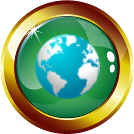
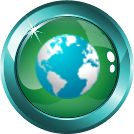
Botonera, cambiado varios aspectos de botonera
Se elimina animación CSS, puesto que no funciona en IOS.
Se cambia el color de botón activado.
Se coloca una barra tras los botones.

diff --git a/www/css/index.css b/www/css/index.css
@@ -62,49 +62,19 @@ footer.page-footer {
   margin-bottom: 0;
   margin-top: 0;
   background-color: #13fdfe;
-  /*background-image: url('../img/botonera.png');*/
+  background-image: url('../img/botonera.png');
   background-size: 100% 100%;
   height: 20vh;
-  animation: nieblaPie 100s ease infinite;
+  /*animation: nieblaPie 30s linear infinite;*/
   line-height: 0.5em;
   font-size: 1.3em;
   /*background-image: url('../img/botonera.jpg');*/
 }
 
-@keyframes nieblaPie {
-  0% {
-    background-image: url('../img/botonera-0.png');
-  }
-  10% {
-    background-image: url('../img/botonera-1.png');
-  }
-  20% {
-    background-image: url('../img/botonera-2.png');
-  }
-  30% {
-    background-image: url('../img/botonera-3.png');
-  }
-  40% {
-    background-image: url('../img/botonera-4.png');
-  }
-  50% {
-    background-image: url('../img/botonera-5.png');
-  }
-  60% {
-    background-image: url('../img/botonera-4.png');
-  }
-  70% {
-    background-image: url('../img/botonera-3.png');
-  }
-  80% {
-    background-image: url('../img/botonera-2.png');
-  }
-  90% {
-    background-image: url('../img/botonera-1.png');
-  }
-  100% {
-    background-image: url('../img/botonera-0.png');
-  }
+.botonera {
+  background-image: url('../img/fondo_botonera.gif');
+  background-position: center;
+  background-size: 90%;
 }
 
 .nombreApp {

diff --git a/www/index.html b/www/index.html
@@ -69,7 +69,7 @@
       </main>
       <footer class="page-footer">
         <div class="controls container">
-          <div class="row">
+          <div class="row botonera">
             <div class="col s3 m3 l3">
                 <img id="scanner-boton" src="img/boton_scanner_pulsado.png" class="circle indigo responsive-img z-depth-3" />
                 <br />
